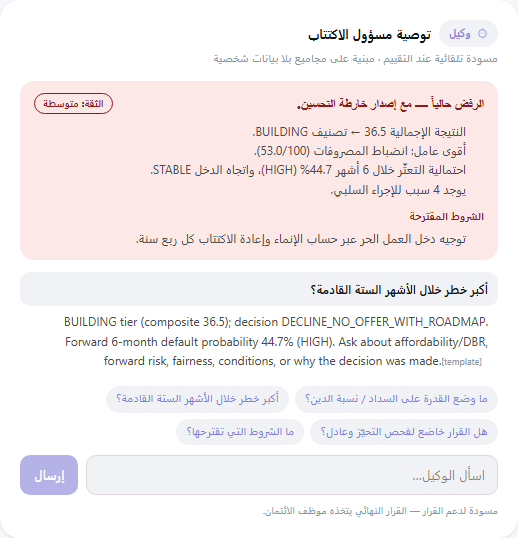
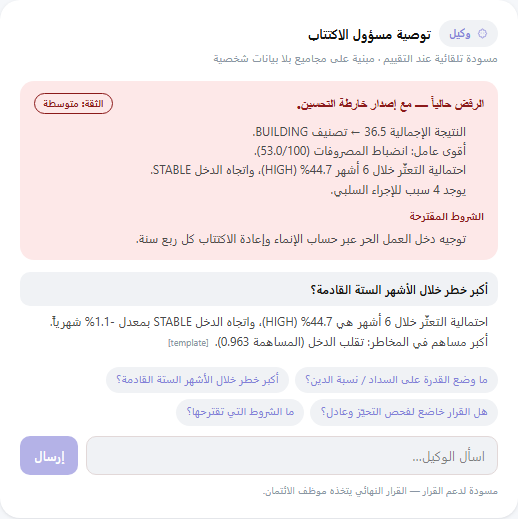
fix: bilingual underwriting agent — Arabic chips route and answer in Arabic
Screenshot QA caught the headline slide-7 feature broken in the demo's
default language: 3 of the 4 Arabic suggestion chips the UI itself offers
fell through to the generic summary, answered in English.

Two stacked causes, two fixes:
- Router: keyword matching now normalizes Arabic first (strip harakat/
  shadda/tatweel, fold alef variants) and the keyword lists carry singular
  AND broken-plural stems. The failures were pure morphology: "مخاطر" is
  not a substring of "خطر", the shadda in "التحيّز" defeated raw substring
  match, and "شرط" is not a substring of "الشروط".
- Answers: every template handler now returns (answer_en, answer_ar);
  composition, fallback summary, and the error path are bilingual. The
  live-Claude path is instructed to answer in the question's language and
  returns answer_ar=null; the UI renders by language with EN fallback.

11 new tests pin it: per-chip routing + Arabic answers, EN/AR routing
parity, diacritic/alef normalization, bilingual fallback. 132 total.
20_underwriter_agent.png recaptured — the chip's answer now shows in
Arabic, grounded in the forward outlook.

diff --git a/frontend/components/UnderwriterAgent.tsx b/frontend/components/UnderwriterAgent.tsx
@@ -61,7 +61,7 @@ export default function UnderwriterAgent({
       setTurns((t) =>
         t.map((turn, i) =>
           i === t.length - 1
-            ? { ...turn, a: { answer_en: isEn ? "Agent unavailable." : "الوكيل غير متاح.", grounding: [], source: "template" } }
+            ? { ...turn, a: { answer_en: "Agent unavailable.", answer_ar: "الوكيل غير متاح.", grounding: [], source: "template" } }
             : turn
         )
       );
@@ -141,7 +141,7 @@ export default function UnderwriterAgent({
                 {t.q}
               </p>
               <p style={{ fontSize: 12, color: "var(--text-2)", lineHeight: 1.6, padding: "6px 10px" }}>
-                {t.a ? t.a.answer_en : (isEn ? "…" : "…")}
+                {t.a ? (isEn ? t.a.answer_en : (t.a.answer_ar ?? t.a.answer_en)) : "…"}
                 {t.a && (
                   <span style={{ fontSize: 9, color: "var(--text-3)", marginInlineStart: 6 }}>
                     [{t.a.source}]

diff --git a/frontend/lib/types.ts b/frontend/lib/types.ts
@@ -290,6 +290,9 @@ export interface AgentAnswer {
   profile_id?: string
   question?: string
   answer_en: string
+  // null on live-Claude answers (the model answers in the question's
+  // language directly); template answers always carry both languages
+  answer_ar?: string | null
   grounding: string[]
   source: "template" | "claude-live"
 }

diff --git a/backend/underwriting_agent.py b/backend/underwriting_agent.py
@@ -42,7 +42,8 @@ AGENT_SYSTEM_PROMPT = (
     "default probability, and adverse-action reason codes) — never any personal "
     "data or raw transactions. Answer the officer's question concisely and only "
     "from the aggregate provided. Never invent figures. Be decisive but always "
-    "defer the final decision to the human officer."
+    "defer the final decision to the human officer. Respond in the same language "
+    "as the officer's question (Arabic questions get Arabic answers)."
 )
 
 
@@ -226,110 +227,170 @@ def draft_recommendation(context: dict, *, allow_live: bool = False) -> dict:
 # Grounded chat Q&A
 # ---------------------------------------------------------------------------
 
+# Arabic text folds before keyword matching: harakat + shadda diacritics and
+# tatweel are cosmetic (the officer chip says "التحيّز" — with shadda — while a
+# keyword stores "تحيز"), and alef variants (أ إ آ) are interchangeable in
+# real-world typing. Without this fold, substring matching silently fails on
+# perfectly normal Arabic and the question drops to the generic summary.
+_AR_DIACRITICS = re.compile(r"[ً-ْـ]")
+_AR_ALEF = re.compile(r"[أإآ]")
+
+
+def _normalize(text: str) -> str:
+    text = _AR_DIACRITICS.sub("", text)
+    text = _AR_ALEF.sub("ا", text)
+    return text.lower()
+
+
 def _match(question: str, keywords: tuple[str, ...]) -> bool:
-    q = question.lower()
-    return any(k in q for k in keywords)
+    q = _normalize(question)
+    return any(_normalize(k) in q for k in keywords)
 
 
-# --- Intent handlers: each returns (answer_text, grounding_list) ------------
+# --- Intent handlers: each returns (answer_en, answer_ar, grounding) --------
+# Bilingual by construction: the officer dashboard is Arabic-first, so an
+# Arabic question must get an Arabic answer — the English field is for the
+# EN toggle and the audit trail. Technical tokens (band, DBR, μ/σ) stay
+# inline in English per the app-wide design rule.
 
-def _ans_dbr(ctx: dict) -> tuple[str, list[str]]:
+def _ans_dbr(ctx: dict) -> tuple[str, str, list[str]]:
     dbr = ctx["dbr"]
-    ans = (
+    en = (
         f"Affordability is set by SAMA Art. 14(b): 45% of the {dbr['income_basis_sar']:,} SAR "
         f"underwriting income = {dbr['max_installment_sar']:,} SAR max installment. "
         f"Offered {dbr['offered_installment_sar']:,} SAR, headroom {dbr['headroom_sar']:,} SAR"
         + (" — offer is compressed to the ceiling." if dbr["compressed"] else ".")
     )
-    return ans, ["dbr"]
+    ar = (
+        f"القدرة على السداد وفق ساما م.14(ب): 45% من دخل الاكتتاب البالغ {dbr['income_basis_sar']:,} ريال "
+        f"= حد أقصى للقسط {dbr['max_installment_sar']:,} ريال. "
+        f"القسط المعروض {dbr['offered_installment_sar']:,} ريال، والهامش المتاح {dbr['headroom_sar']:,} ريال"
+        + (" — العرض مخفّض إلى السقف." if dbr["compressed"] else ".")
+    )
+    return en, ar, ["dbr"]
 
 
-def _ans_forward(ctx: dict) -> tuple[str, list[str]]:
+def _ans_forward(ctx: dict) -> tuple[str, str, list[str]]:
     fwd = ctx["forward"]
     sig = fwd["top_signals"][0] if fwd["top_signals"] else None
-    ans = (
+    en = (
         f"Forward 6-month default probability is {fwd['pd_6m_pct']}% ({fwd['band']}), "
         f"income trend {fwd['trend'].lower()} ({fwd['trend_pct_per_month']}%/mo)."
         + (f" Largest driver: {sig['label_en']} (contribution {sig['contribution']})." if sig else "")
     )
-    return ans, ["forward"]
+    ar = (
+        f"احتمالية التعثّر خلال 6 أشهر هي {fwd['pd_6m_pct']}% ({fwd['band']})، "
+        f"واتجاه الدخل {fwd['trend']} بمعدل {fwd['trend_pct_per_month']}% شهرياً."
+        + (f" أكبر مساهم في المخاطر: {sig['label_ar']} (المساهمة {sig['contribution']})." if sig else "")
+    )
+    return en, ar, ["forward"]
 
 
-def _ans_fairness(ctx: dict) -> tuple[str, list[str]]:
-    ans = (
-        f"Fairness: {ctx['fairness']['protected_attributes_used']} protected attributes are used "
-        f"in the score, and AI-payload PII exposure is {ctx['fairness']['ai_pii_exposure']}. "
+def _ans_fairness(ctx: dict) -> tuple[str, str, list[str]]:
+    n = ctx["fairness"]["protected_attributes_used"]
+    exposure = ctx["fairness"]["ai_pii_exposure"]
+    en = (
+        f"Fairness: {n} protected attributes are used "
+        f"in the score, and AI-payload PII exposure is {exposure}. "
         "The model is a fixed, published linear model, so every attribution is exact."
     )
-    return ans, ["fairness"]
+    ar = (
+        f"العدالة: عدد الخصائص المحمية المستخدمة في النتيجة {n}، "
+        f"وتعرّض حمولة الذكاء الاصطناعي للبيانات الشخصية: {exposure}. "
+        "النموذج خطي ثابت ومنشور المعاملات، لذا كل إسناد للعوامل دقيق وليس تقريبياً."
+    )
+    return en, ar, ["fairness"]
 
 
-def _ans_conditions(ctx: dict) -> tuple[str, list[str]]:
+def _ans_conditions(ctx: dict) -> tuple[str, str, list[str]]:
     conds = _conditions(ctx)
     if not conds:
-        ans = "No special conditions required — standard approval terms apply."
+        en = "No special conditions required — standard approval terms apply."
+        ar = "لا حاجة لشروط خاصة — تسري أحكام الموافقة القياسية."
     else:
-        ans = "Suggested conditions: " + " ".join(f"({i+1}) {c['en']}" for i, c in enumerate(conds))
-    return ans, ["conditions"]
+        en = "Suggested conditions: " + " ".join(f"({i+1}) {c['en']}" for i, c in enumerate(conds))
+        ar = "الشروط المقترحة: " + " ".join(f"({i+1}) {c['ar']}" for i, c in enumerate(conds))
+    return en, ar, ["conditions"]
 
 
-def _ans_adverse(ctx: dict) -> tuple[str, list[str]]:
+def _ans_adverse(ctx: dict) -> tuple[str, str, list[str]]:
     if ctx["adverse_reasons"]:
-        reasons = "; ".join(r["reason_en"] for r in ctx["adverse_reasons"])
-        ans = f"Principal adverse-action reasons: {reasons}"
+        en = "Principal adverse-action reasons: " + "; ".join(r["reason_en"] for r in ctx["adverse_reasons"])
+        ar = "الأسباب الرئيسية للإجراء السلبي: " + "؛ ".join(r["reason_ar"] for r in ctx["adverse_reasons"])
     else:
-        ans = "No adverse action on this file — the application clears the financing threshold."
-    return ans, ["adverse_reasons"]
+        en = "No adverse action on this file — the application clears the financing threshold."
+        ar = "لا يوجد إجراء سلبي على هذا الملف — الطلب يتجاوز عتبة التمويل."
+    return en, ar, ["adverse_reasons"]
 
 
-def _ans_strength(ctx: dict) -> tuple[str, list[str]]:
+def _ans_strength(ctx: dict) -> tuple[str, str, list[str]]:
     top = ctx["principal_factors"][0]
-    ans = f"Strongest driver is {top['label_en']} at {top['score']}/100 ({top['contribution_pct']}% of the composite)."
-    return ans, ["principal_factors"]
+    en = f"Strongest driver is {top['label_en']} at {top['score']}/100 ({top['contribution_pct']}% of the composite)."
+    ar = f"أقوى عامل هو {top['label_ar']} بدرجة {top['score']}/100 ({top['contribution_pct']}% من النتيجة الإجمالية)."
+    return en, ar, ["principal_factors"]
 
 
-def _ans_stability(ctx: dict) -> tuple[str, list[str]]:
+def _ans_stability(ctx: dict) -> tuple[str, str, list[str]]:
     f = ctx["factors"]
     fwd = ctx["forward"]
-    ans = (
+    en = (
         f"Income stability {f['income_stability']}/100, client diversity {f['client_diversity']}/100. "
         f"Six-month income trend is {fwd['trend'].lower()} at {fwd['trend_pct_per_month']}%/mo."
+    )
+    ar = (
+        f"استقرار الدخل {f['income_stability']}/100، وتنوع العملاء {f['client_diversity']}/100. "
+        f"اتجاه الدخل خلال 6 أشهر {fwd['trend']} بمعدل {fwd['trend_pct_per_month']}% شهرياً."
     )
     grounding = ["factors", "forward"]
     vol = ctx.get("volatility")
     if vol and vol.get("sigma_sar") is not None:
-        ans += (
+        en += (
             f" Underwriting is deliberately conservative: average income SAR "
             f"{vol['mean_monthly_income_sar']:,}, but the μ−1.5σ underwriting income is "
             f"SAR {vol['underwriting_income_sar']:,} — a SAR {vol['conservatism_haircut_sar']:,} "
             f"haircut driven by volatility (σ = SAR {vol['sigma_sar']:,})."
         )
+        ar += (
+            f" الاكتتاب متحفّظ عمداً: متوسط الدخل {vol['mean_monthly_income_sar']:,} ريال، "
+            f"بينما دخل الاكتتاب (μ−1.5σ) هو {vol['underwriting_income_sar']:,} ريال — "
+            f"خصم قدره {vol['conservatism_haircut_sar']:,} ريال بسبب التقلب (σ = {vol['sigma_sar']:,} ريال)."
+        )
         grounding.append("volatility")
-    return ans, grounding
+    return en, ar, grounding
 
 
-def _ans_what_if(ctx: dict) -> tuple[str, list[str]]:
+def _ans_what_if(ctx: dict) -> tuple[str, str, list[str]]:
     """Curveball / hypothetical. Directional and honest — names which factors a
     change would move and defers to a re-score for numbers. Never invents figures."""
     fwd = ctx["forward"]
-    ans = (
+    en = (
         "Directional read only (not a re-score): a new recurring high-value client would raise "
         "client diversity and, if sustained across months, income stability — both lift the composite "
         f"from {ctx['composite']} and widen DBR headroom via higher underwriting income. The binding "
         f"constraint today is the {ctx['tier']} composite with a {fwd['band']} 6-month outlook. "
         "Re-run the assessment with the updated statement to quantify the new score and offer."
     )
-    return ans, ["what_if", "forward"]
+    ar = (
+        "قراءة اتجاهية فقط (وليست إعادة تقييم): عميل جديد متكرر بقيمة عالية سيرفع تنوع العملاء، "
+        "وإذا استمر عبر الأشهر فسيرفع استقرار الدخل أيضاً — وكلاهما يرفع النتيجة الإجمالية من "
+        f"{ctx['composite']} ويوسّع هامش نسبة الدين عبر دخل اكتتاب أعلى. القيد الأساسي اليوم هو تصنيف "
+        f"{ctx['tier']} مع نظرة مستقبلية {fwd['band']} لستة أشهر. "
+        "أعد التقييم بالكشف المحدّث لتحديد النتيجة والعرض الجديدين."
+    )
+    return en, ar, ["what_if", "forward"]
 
 
 # (keywords, handler) — evaluated in this order; ALL matches compose one answer.
+# Arabic keywords must cover the app's own suggestion chips: singular AND
+# broken-plural stems ("خطر" is not a substring of "مخاطر", nor "شرط" of
+# "الشروط"), or the chips the UI offers route to the generic summary.
 INTENTS = [
     (("dbr", "install", "afford", "capacity", "قسط", "نسبة الدين", "سداد", "طاقة"), _ans_dbr),
     (("risk", "default", "6 month", "forward", "future", "next", "outlook",
-      "تعثر", "مخاطر", "مستقبل", "احتمال"), _ans_forward),
-    (("fair", "bias", "discrimin", "protected", "عدال", "تحيز", "تمييز"), _ans_fairness),
-    (("condition", "covenant", "escrow", "mitigat", "شرط", "ضمان", "تخفيف"), _ans_conditions),
-    (("declin", "reject", "why not", "adverse", "رفض", "سبب"), _ans_adverse),
+      "تعثر", "خطر", "مخاطر", "أخطار", "مستقبل", "احتمال", "قادم"), _ans_forward),
+    (("fair", "bias", "discrimin", "protected", "عدال", "عادل", "تحيز", "تمييز"), _ans_fairness),
+    (("condition", "covenant", "escrow", "mitigat", "شرط", "شروط", "تقترح", "ضمان", "تخفيف"), _ans_conditions),
+    (("declin", "reject", "why not", "adverse", "رفض", "سبب", "أسباب", "لماذا"), _ans_adverse),
     (("strong", "best", "strength", "أقوى", "قوة", "أفضل"), _ans_strength),
     (("trend", "volatil", "stability", "concentr", "divers", "client",
       "اتجاه", "تقلب", "استقرار", "تنوع", "تركز", "عملاء"), _ans_stability),
@@ -351,7 +412,11 @@ def answer_question(question: str, context: dict, *, allow_live: bool = False) -
     if allow_live:
         live = _live_answer(q, context)
         if live:
-            return {"answer_en": live, "grounding": ["forward", "dbr", "principal_factors"],
+            # the model is instructed to answer in the question's language, so
+            # the text is already language-appropriate; answer_ar stays None
+            # and the UI falls back to this field.
+            return {"answer_en": live, "answer_ar": None,
+                    "grounding": ["forward", "dbr", "principal_factors"],
                     "source": "claude-live"}
 
     matches = [handler(context) for keywords, handler in INTENTS if _match(q, keywords)]
@@ -359,20 +424,27 @@ def answer_question(question: str, context: dict, *, allow_live: bool = False) -
 
     if not matches:
         fwd = context["forward"]
-        ans = (
+        en = (
             f"{context['tier']} tier (composite {context['composite']}); decision {context['decision']}. "
             f"Forward 6-month default probability {fwd['pd_6m_pct']}% ({fwd['band']}). "
             "Ask about affordability/DBR, forward risk, fairness, conditions, or why the decision was made."
         )
-        return {"answer_en": ans, "grounding": ["summary"], "source": "template"}
+        ar = (
+            f"تصنيف {context['tier']} (النتيجة الإجمالية {context['composite']})؛ القرار {context['decision']}. "
+            f"احتمالية التعثّر خلال 6 أشهر {fwd['pd_6m_pct']}% ({fwd['band']}). "
+            "اسأل عن القدرة على السداد/نسبة الدين، المخاطر المستقبلية، العدالة، الشروط، أو أسباب القرار."
+        )
+        return {"answer_en": en, "answer_ar": ar, "grounding": ["summary"], "source": "template"}
 
-    answer = " ".join(text for text, _ in matches)
+    answer_en = " ".join(en for en, _, _ in matches)
+    answer_ar = " ".join(ar for _, ar, _ in matches)
     grounding: list[str] = []
-    for _, gs in matches:
+    for _, _, gs in matches:
         for g in gs:
             if g not in grounding:
                 grounding.append(g)
-    return {"answer_en": answer, "grounding": grounding, "source": "template"}
+    return {"answer_en": answer_en, "answer_ar": answer_ar,
+            "grounding": grounding, "source": "template"}
 
 
 # ---------------------------------------------------------------------------

diff --git a/backend/tests/test_underwriting_agent.py b/backend/tests/test_underwriting_agent.py
@@ -163,3 +163,65 @@ def test_answers_are_deterministic():
     a = answer_question("forward risk?", ctx)
     b = answer_question("forward risk?", ctx)
     assert a == b
+
+
+# ---------------------------------------------------------------------------
+# Arabic parity — the dashboard is Arabic-first, and the UI's own suggestion
+# chips are Arabic. Screenshot QA caught 3 of the 4 chips falling back to the
+# generic summary (singular "خطر" vs plural keyword "مخاطر"; the shadda in
+# "التحيّز" defeating raw substring match; broken plural "الشروط" vs "شرط"),
+# answered in English. These pin routing AND answer language per chip.
+# ---------------------------------------------------------------------------
+
+ARABIC_CHIPS = [  # (the exact chip text the UI offers, expected primary grounding)
+    ("ما وضع القدرة على السداد / نسبة الدين؟", "dbr"),
+    ("أكبر خطر خلال الأشهر الستة القادمة؟", "forward"),
+    ("هل القرار خاضع لفحص التحيّز وعادل؟", "fairness"),
+    ("ما الشروط التي تقترحها؟", "conditions"),
+]
+
+
+def _has_arabic(text: str) -> bool:
+    return any("" <= c <= "ۿ" for c in text)
+
+
[email redacted]("question,intent", ARABIC_CHIPS)
+def test_arabic_chip_routes_to_intent_not_summary(question, intent):
+    ctx = _persona_context("fahad")
+    r = answer_question(question, ctx)
+    assert intent in r["grounding"], f"chip fell back to {r['grounding']}"
+    assert r["grounding"] != ["summary"]
+
+
[email redacted]("question,intent", ARABIC_CHIPS)
+def test_arabic_chip_gets_arabic_answer(question, intent):
+    ctx = _persona_context("fahad")
+    r = answer_question(question, ctx)
+    assert r["answer_ar"], "template answers must always carry answer_ar"
+    assert _has_arabic(r["answer_ar"])
+
+
+def test_english_and_arabic_chip_route_identically():
+    ctx = _persona_context("fahad")
+    pairs = [
+        ("Biggest risk over the next 6 months?", "أكبر خطر خلال الأشهر الستة القادمة؟"),
+        ("Is this decision bias-checked and fair?", "هل القرار خاضع لفحص التحيّز وعادل؟"),
+        ("What conditions would you attach?", "ما الشروط التي تقترحها؟"),
+    ]
+    for en, ar in pairs:
+        assert answer_question(en, ctx)["grounding"] == answer_question(ar, ctx)["grounding"]
+
+
+def test_diacritics_and_alef_variants_do_not_break_matching():
+    ctx = _persona_context("noura")
+    # shadda + alef-hamza forms of the same fairness question
+    assert "fairness" in answer_question("هل يوجد تحيّز؟", ctx)["grounding"]
+    assert "fairness" in answer_question("هل يوجد تحيز؟", ctx)["grounding"]
+    assert "forward" in answer_question("أكبر الأخطار؟", ctx)["grounding"]
+
+
+def test_fallback_summary_is_bilingual():
+    ctx = _persona_context("noura")
+    r = answer_question("طقس الرياض اليوم", ctx)  # genuinely off-topic
+    assert r["grounding"] == ["summary"]
+    assert r["answer_ar"] and _has_arabic(r["answer_ar"])

diff --git a/CLAUDE.md b/CLAUDE.md
@@ -13,7 +13,7 @@ empty SIMAH files and no Mudad salary record.
 - Docker: `docker compose up --build` (both services)
 - Windows native: `.\start.ps1`
 - Manual: `cd backend && python -m uvicorn main:app --reload --port 9000` + `cd frontend && npm run dev`
-- Tests: `cd backend && python -m pytest tests/` (121 cases: scoring, factor derivation, PII exclusion, statement import, entity resolution, import explanation/roadmap, regulatory XAI, forward-outlook predictive model, underwriting agent — must stay green)
+- Tests: `cd backend && python -m pytest tests/` (132 cases: scoring, factor derivation, PII exclusion, statement import, entity resolution, import explanation/roadmap, regulatory XAI, forward-outlook predictive model, underwriting agent incl. Arabic-chip parity — must stay green)
 - CI: `.github/workflows/ci.yml` runs tests + API smoke + docker build on push
 
 ## Key facts
@@ -108,7 +108,14 @@ empty SIMAH files and no Mudad salary record.
     `/import-statement`. Frontend: `UnderwriterAgent` (the one client
     component in `/banker/[id]`). Chat is MULTI-INTENT: `answer_question`
     composes ALL matching intents (up to 3) with union grounding, plus a
-    `what_if` handler for curveballs (directional, no invented numbers). The
+    `what_if` handler for curveballs (directional, no invented numbers).
+    Chat is BILINGUAL: every template handler returns `answer_en` AND
+    `answer_ar` (UI renders by language, falls back to EN for live answers),
+    and keyword matching normalizes Arabic first (strip harakat/shadda/
+    tatweel, fold alef variants) with singular AND broken-plural stems —
+    "خطر/مخاطر/أخطار", "شرط/شروط" — because the UI's own Arabic suggestion
+    chips otherwise fall through to the generic summary (this shipped broken
+    once; `test_underwriting_agent.py` Arabic-parity tests pin it). The
     context includes a `volatility` block (μ, σ, μ−1.5σ income, and the
     conservatism haircut) so the agent can explain the VANC penalty — driven by
     `MihanScore.vanc_mean` / `vanc_sigma`.

diff --git a/README.md b/README.md
@@ -378,7 +378,7 @@ Base URL: `http://localhost:9000`
 │   ├── simah_simulation.py     # SIMAH thin-file simulation
 │   ├── models.py · profiles.py · database.py · pdf_gen.py
 │   ├── improvement_roadmap.py · explanations.json · generate_cache.py
-│   ├── tests/                  # 121 pytest cases — tiers, DBR, VANC, factor derivation, PII exclusion, statement import + entity resolution + explanation, regulatory XAI, forward-outlook, underwriting agent
+│   ├── tests/                  # 132 pytest cases — tiers, DBR, VANC, factor derivation, PII exclusion, statement import + entity resolution + explanation, regulatory XAI, forward-outlook, underwriting agent (incl. Arabic-chip parity)
 │   ├── requirements.txt · Dockerfile
 │   └── .env                    # (gitignored) Wathq API credentials — see Quick Start
 ├── frontend/